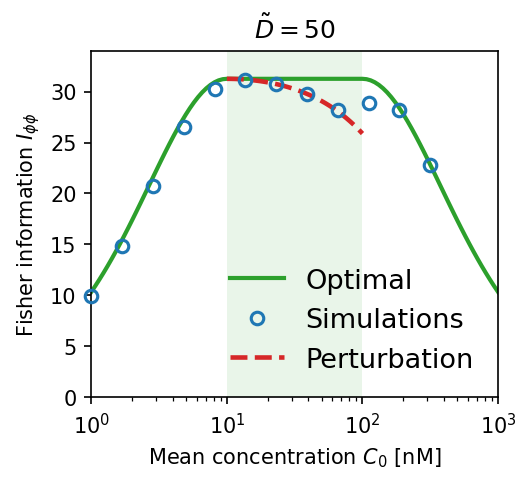
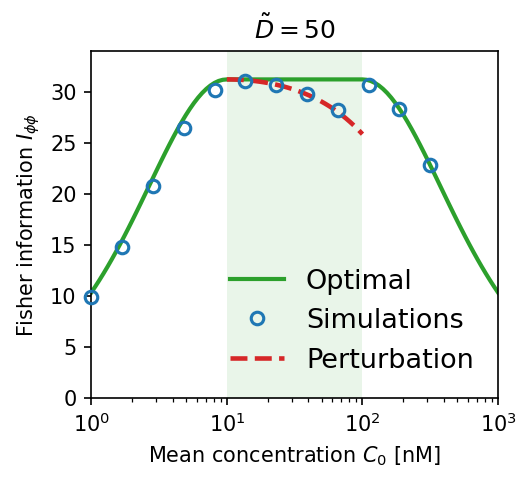
:bug: Fix KM value in check_perturbation/simulation.py to match paper
KM was 0.0001 but should be 0.00001, matching the value used in the
original notebook that generated Fig. 5. This fixes the discrepancy
where simulated points near C0 ≈ 100 nM drifted off the optimal curve.

diff --git a/check_perturbation/simulation.py b/check_perturbation/simulation.py
@@ -22,7 +22,7 @@ kc = 1  # time in units of 1/kc
 KD = 100
 KG = 1
 alpha = 10
-KM = 0.0001  # Michaelis-Menten constant
+KM = 0.00001  # Michaelis-Menten constant
 
 # Initializing array
 l = 40  # number of modeled G-protein sites
